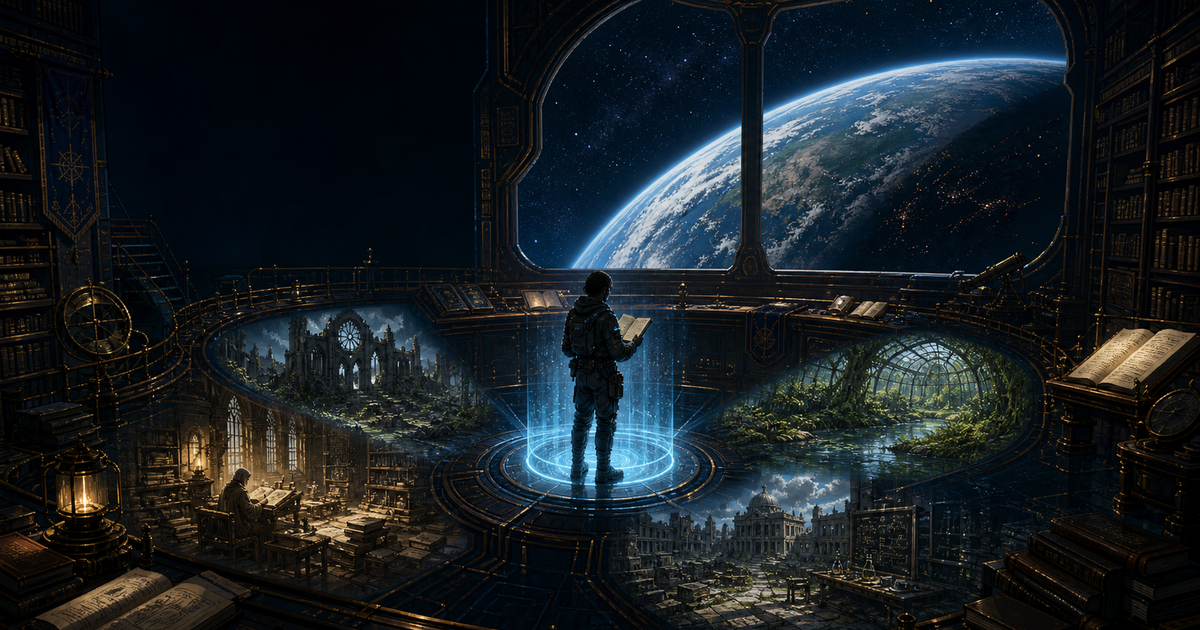
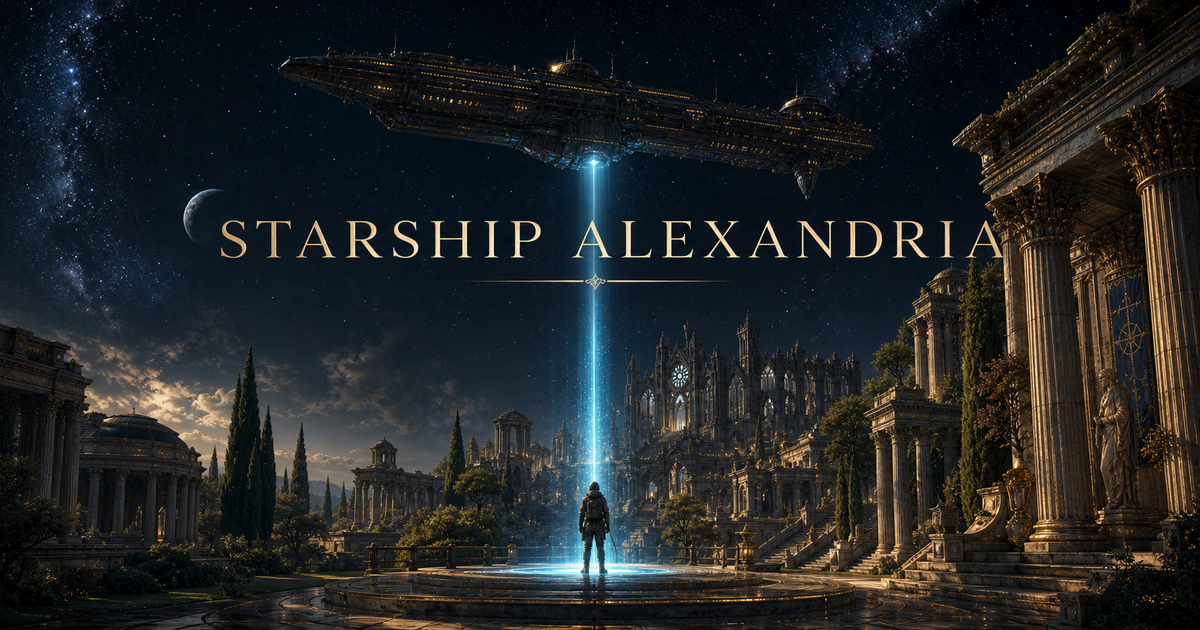
feat: add Celestial Acropolis sharing art

diff --git a/src/game/assets/__tests__/socialArtwork.test.ts b/src/game/assets/__tests__/socialArtwork.test.ts
@@ -1,0 +1,68 @@
+import fs from 'node:fs/promises';
+import path from 'node:path';
+import sharp from 'sharp';
+import { describe, expect, test } from 'vitest';
+
+type ConceptOutput = {
+  path: string;
+  role: string;
+  width: number;
+  height: number;
+  derivedFrom?: string;
+};
+
+type ConceptGeneration = {
+  id: string;
+  prompt: string;
+  outputs: ConceptOutput[];
+};
+
+type ConceptManifest = {
+  version: number;
+  generations: ConceptGeneration[];
+};
+
+const PUBLIC_ROOT = path.join(process.cwd(), 'public');
+
+describe('social artwork', () => {
+  test('uses the selected Celestial Acropolis artwork for the README and social card', async () => {
+    const manifest = JSON.parse(
+      await fs.readFile(path.join(PUBLIC_ROOT, 'images', 'manifest.json'), 'utf8'),
+    ) as ConceptManifest;
+
+    expect(manifest.version).toBe(2);
+    expect(manifest.generations.map((generation) => generation.id)).toEqual([
+      'celestial-acropolis-key-art',
+    ]);
+
+    const keyArtGeneration = manifest.generations[0];
+    expect(keyArtGeneration.prompt).toContain('Direction 1 — "The Celestial Acropolis."');
+    expect(keyArtGeneration.outputs).toMatchObject([
+      {
+        path: '/images/starship-alexandria-key-art.png',
+        role: 'readme-key-art',
+        width: 1734,
+        height: 907,
+      },
+      {
+        path: '/images/og.png',
+        role: 'social-card',
+        width: 1200,
+        height: 630,
+        derivedFrom: '/images/starship-alexandria-key-art.png',
+      },
+    ]);
+
+    const socialCard = await sharp(path.join(PUBLIC_ROOT, 'images', 'og.png')).metadata();
+    expect({
+      format: socialCard.format,
+      width: socialCard.width,
+      height: socialCard.height,
+    }).toEqual({ format: 'png', width: 1200, height: 630 });
+
+    const readme = await fs.readFile(path.join(process.cwd(), 'README.md'), 'utf8');
+    expect(readme).toContain(
+      '![Starship Alexandria hovers above a moonlit Arcadian city of temples and a ruined cathedral while a lone archivist stands in a blue transporter beam.](public/images/starship-alexandria-key-art.png)',
+    );
+  });
+});

diff --git a/src/app/layout.tsx b/src/app/layout.tsx
@@ -18,6 +18,17 @@ const literata = localFont({
   weight: '200 900',
 });
 
+const socialImageAlt =
+  'Starship Alexandria hovers above a moonlit Arcadian city of temples and a ruined cathedral while a lone archivist stands in a blue transporter beam.';
+
+const socialImage = {
+  url: '/images/og.png',
+  width: 1200,
+  height: 630,
+  alt: socialImageAlt,
+  type: 'image/png',
+};
+
 export const metadata: Metadata = {
   metadataBase: new URL('https://starship-alexandria.vercel.app'),
   title: 'Starship Alexandria — Recover the Lost Library',
@@ -28,27 +39,24 @@ export const metadata: Metadata = {
     shortcut: '/favicon.png',
     apple: '/favicon.png',
   },
+  alternates: {
+    canonical: '/',
+  },
   openGraph: {
     type: 'website',
+    url: '/',
     siteName: 'Starship Alexandria',
     title: 'Starship Alexandria',
     description:
       'A cozy roguelike web game — recover fragments of lost classic literature.',
-    images: [
-      {
-        url: '/images/og.png',
-        width: 1200,
-        height: 630,
-        alt: 'An archivist aboard the Starship Alexandria overlooks Earth and four recovered visions: a cathedral, scriptorium, university, and garden conservatory.',
-      },
-    ],
+    images: [socialImage],
   },
   twitter: {
     card: 'summary_large_image',
     title: 'Starship Alexandria',
     description:
       'A cozy roguelike web game — recover fragments of lost classic literature.',
-    images: ['/images/og.png'],
+    images: [socialImage],
   },
 };
 

diff --git a/e2e/social-metadata.spec.ts b/e2e/social-metadata.spec.ts
@@ -1,0 +1,31 @@
+import { expect, test } from './fixtures';
+
+const PRODUCTION_URL = 'https://starship-alexandria.vercel.app';
+const SOCIAL_IMAGE_URL = `${PRODUCTION_URL}/images/og.png`;
+const SOCIAL_IMAGE_ALT =
+  'Starship Alexandria hovers above a moonlit Arcadian city of temples and a ruined cathedral while a lone archivist stands in a blue transporter beam.';
+
+test('@smoke publishes complete social-sharing metadata', async ({ page }) => {
+  await page.goto('/');
+
+  await expect(page.locator('link[rel="canonical"]')).toHaveAttribute('href', PRODUCTION_URL);
+  await expect(page.locator('meta[property="og:url"]')).toHaveAttribute('content', PRODUCTION_URL);
+  await expect(page.locator('meta[property="og:image"]')).toHaveAttribute(
+    'content',
+    SOCIAL_IMAGE_URL,
+  );
+  await expect(page.locator('meta[property="og:image:width"]')).toHaveAttribute('content', '1200');
+  await expect(page.locator('meta[property="og:image:height"]')).toHaveAttribute('content', '630');
+  await expect(page.locator('meta[property="og:image:alt"]')).toHaveAttribute(
+    'content',
+    SOCIAL_IMAGE_ALT,
+  );
+  await expect(page.locator('meta[name="twitter:image"]')).toHaveAttribute(
+    'content',
+    SOCIAL_IMAGE_URL,
+  );
+  await expect(page.locator('meta[name="twitter:image:alt"]')).toHaveAttribute(
+    'content',
+    SOCIAL_IMAGE_ALT,
+  );
+});

diff --git a/README.md b/README.md
@@ -13,9 +13,9 @@ From the orbiting library ship *Alexandria*, choose a recovery signal, beam down
 
 [Play the live demo](https://starship-alexandria.vercel.app)
 
-![An archivist stands on a blue transporter platform in a brass-lined starship library, with Earth above and four ruined destinations below.](public/images/starship-alexandria-key-art.png)
+![Starship Alexandria hovers above a moonlit Arcadian city of temples and a ruined cathedral while a lone archivist stands in a blue transporter beam.](public/images/starship-alexandria-key-art.png)
 
-*AI-generated concept key art for the Alexandria and its four recovery signals; generation details are recorded in the [image manifest](public/images/manifest.json).*
+*AI-generated “Celestial Acropolis” key art for Starship Alexandria; the same composition supplies the social-preview crop. Generation details are recorded in the [image manifest](public/images/manifest.json).*
 
 ## What is in the game
 
@@ -78,6 +78,7 @@ Open [http://localhost:8080](http://localhost:8080).
 | `npm run test:watch` | Run Vitest in watch mode |
 | `npm run test:e2e` | Run the Playwright browser suite |
 | `npm run test:e2e:update` | Intentionally refresh Playwright visual baselines |
+| `npm run generate:social-preview` | Rebuild the 1200×630 social card from the README key art |
 | `npm run smoke` | Run the representative browser smoke journey |
 | `npm run lint` | Check source files with ESLint |
 | `npm run typecheck` | Run strict TypeScript checks without emitting files |

diff --git a/ASSET_CREDITS.md b/ASSET_CREDITS.md
@@ -30,11 +30,14 @@ images are included.
 
 ## Concept key art
 
-`public/images/starship-alexandria-key-art.png` and its social-preview crop were
-generated with OpenAI image generation through Codex on 2026-07-17. They are
-showcase artwork only: no generated image controls collision, navigation, or
-tile semantics. `public/images/manifest.json` records the exact prompt,
-dimensions, transformations, SHA-256 hashes, and a visible AI disclosure.
+`public/images/starship-alexandria-key-art.png` was generated with OpenAI image
+generation through Codex on 2026-07-21. The selected “Celestial Acropolis”
+composition is both the README hero and the source for `public/images/og.png`;
+run `npm run generate:social-preview` to reproduce its 1200×630 social crop.
+The images are showcase artwork only: no generated image controls collision,
+navigation, or tile semantics. `public/images/manifest.json` records the
+generation prompt, dimensions, transformation, SHA-256 hashes, and visible AI
+disclosure.
 
 ## Audio
 
